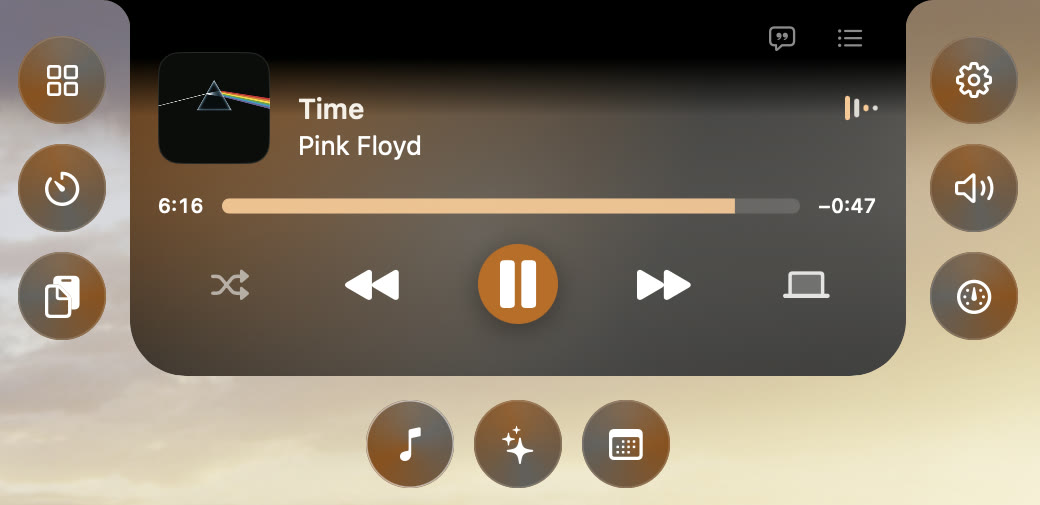
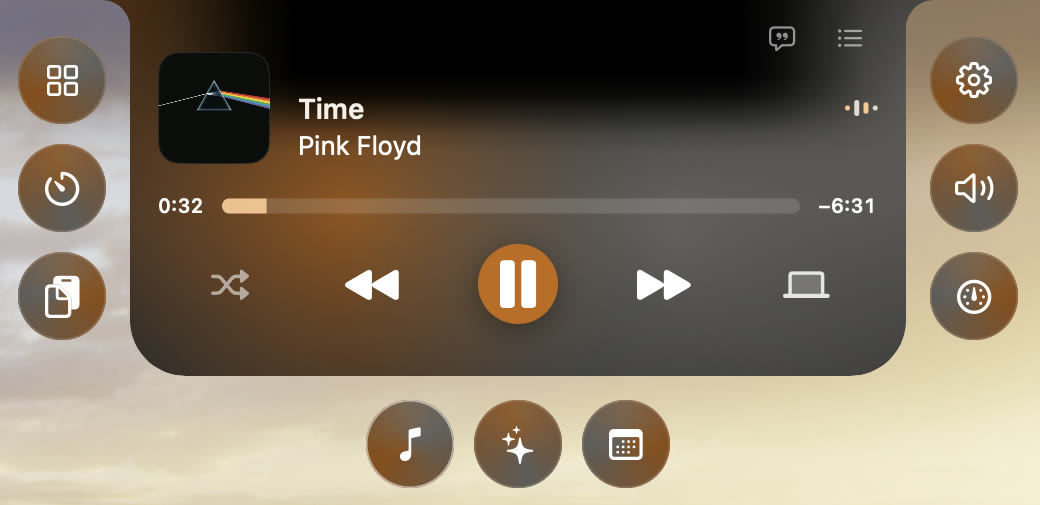
README: current screenshots (colour into the top corners, Duotone)

diff --git a/README.md b/README.md
@@ -3,7 +3,8 @@
 <p align="center"><strong>Your MacBook's notch, in sync with your music.</strong></p>
 
 <p align="center">
-  <img src="docs/thats-what-she-synced/song-mode.jpg" width="90%" alt="The open island and its buttons in the colours of Genesis' self-titled album">
+  <img src="docs/thats-what-she-synced/vivid-genesis.jpg" width="49%" alt="The island and its buttons in the warm colours of Genesis' self-titled album">
+  <img src="docs/thats-what-she-synced/vivid-pinkfloyd.jpg" width="49%" alt="The island and its buttons in the prism colours of Pink Floyd's The Dark Side of the Moon">
 </p>
 
 > **Unofficial.** A personal fork of **[Vorssaint](https://github.com/vorssaint/vorssaint-utils)**, not affiliated with or endorsed by it. Source only, no builds. Get the official app at [vorssaint.com](https://vorssaint.com).
